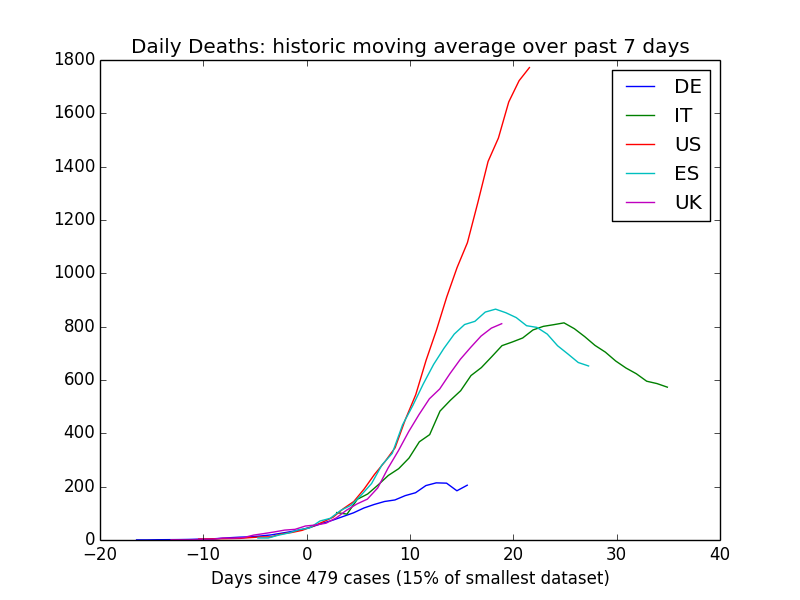
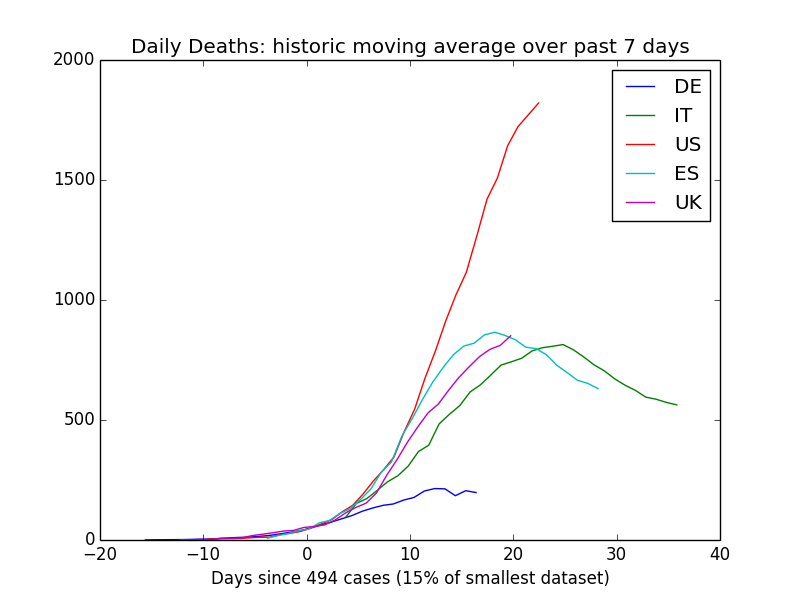
Update plots with data from April, 14th

diff --git a/README.md b/README.md
@@ -2,7 +2,7 @@
 
 Data is taken from the [2019 Novel Coronavirus COVID-19 Data Repository by Johns Hopkins CSSE](https://github.com/CSSEGISandData/COVID-19)
 
-### Last update: 13.04.2020
+### Last update: 14.04.2020
 
 ### Cases
 
